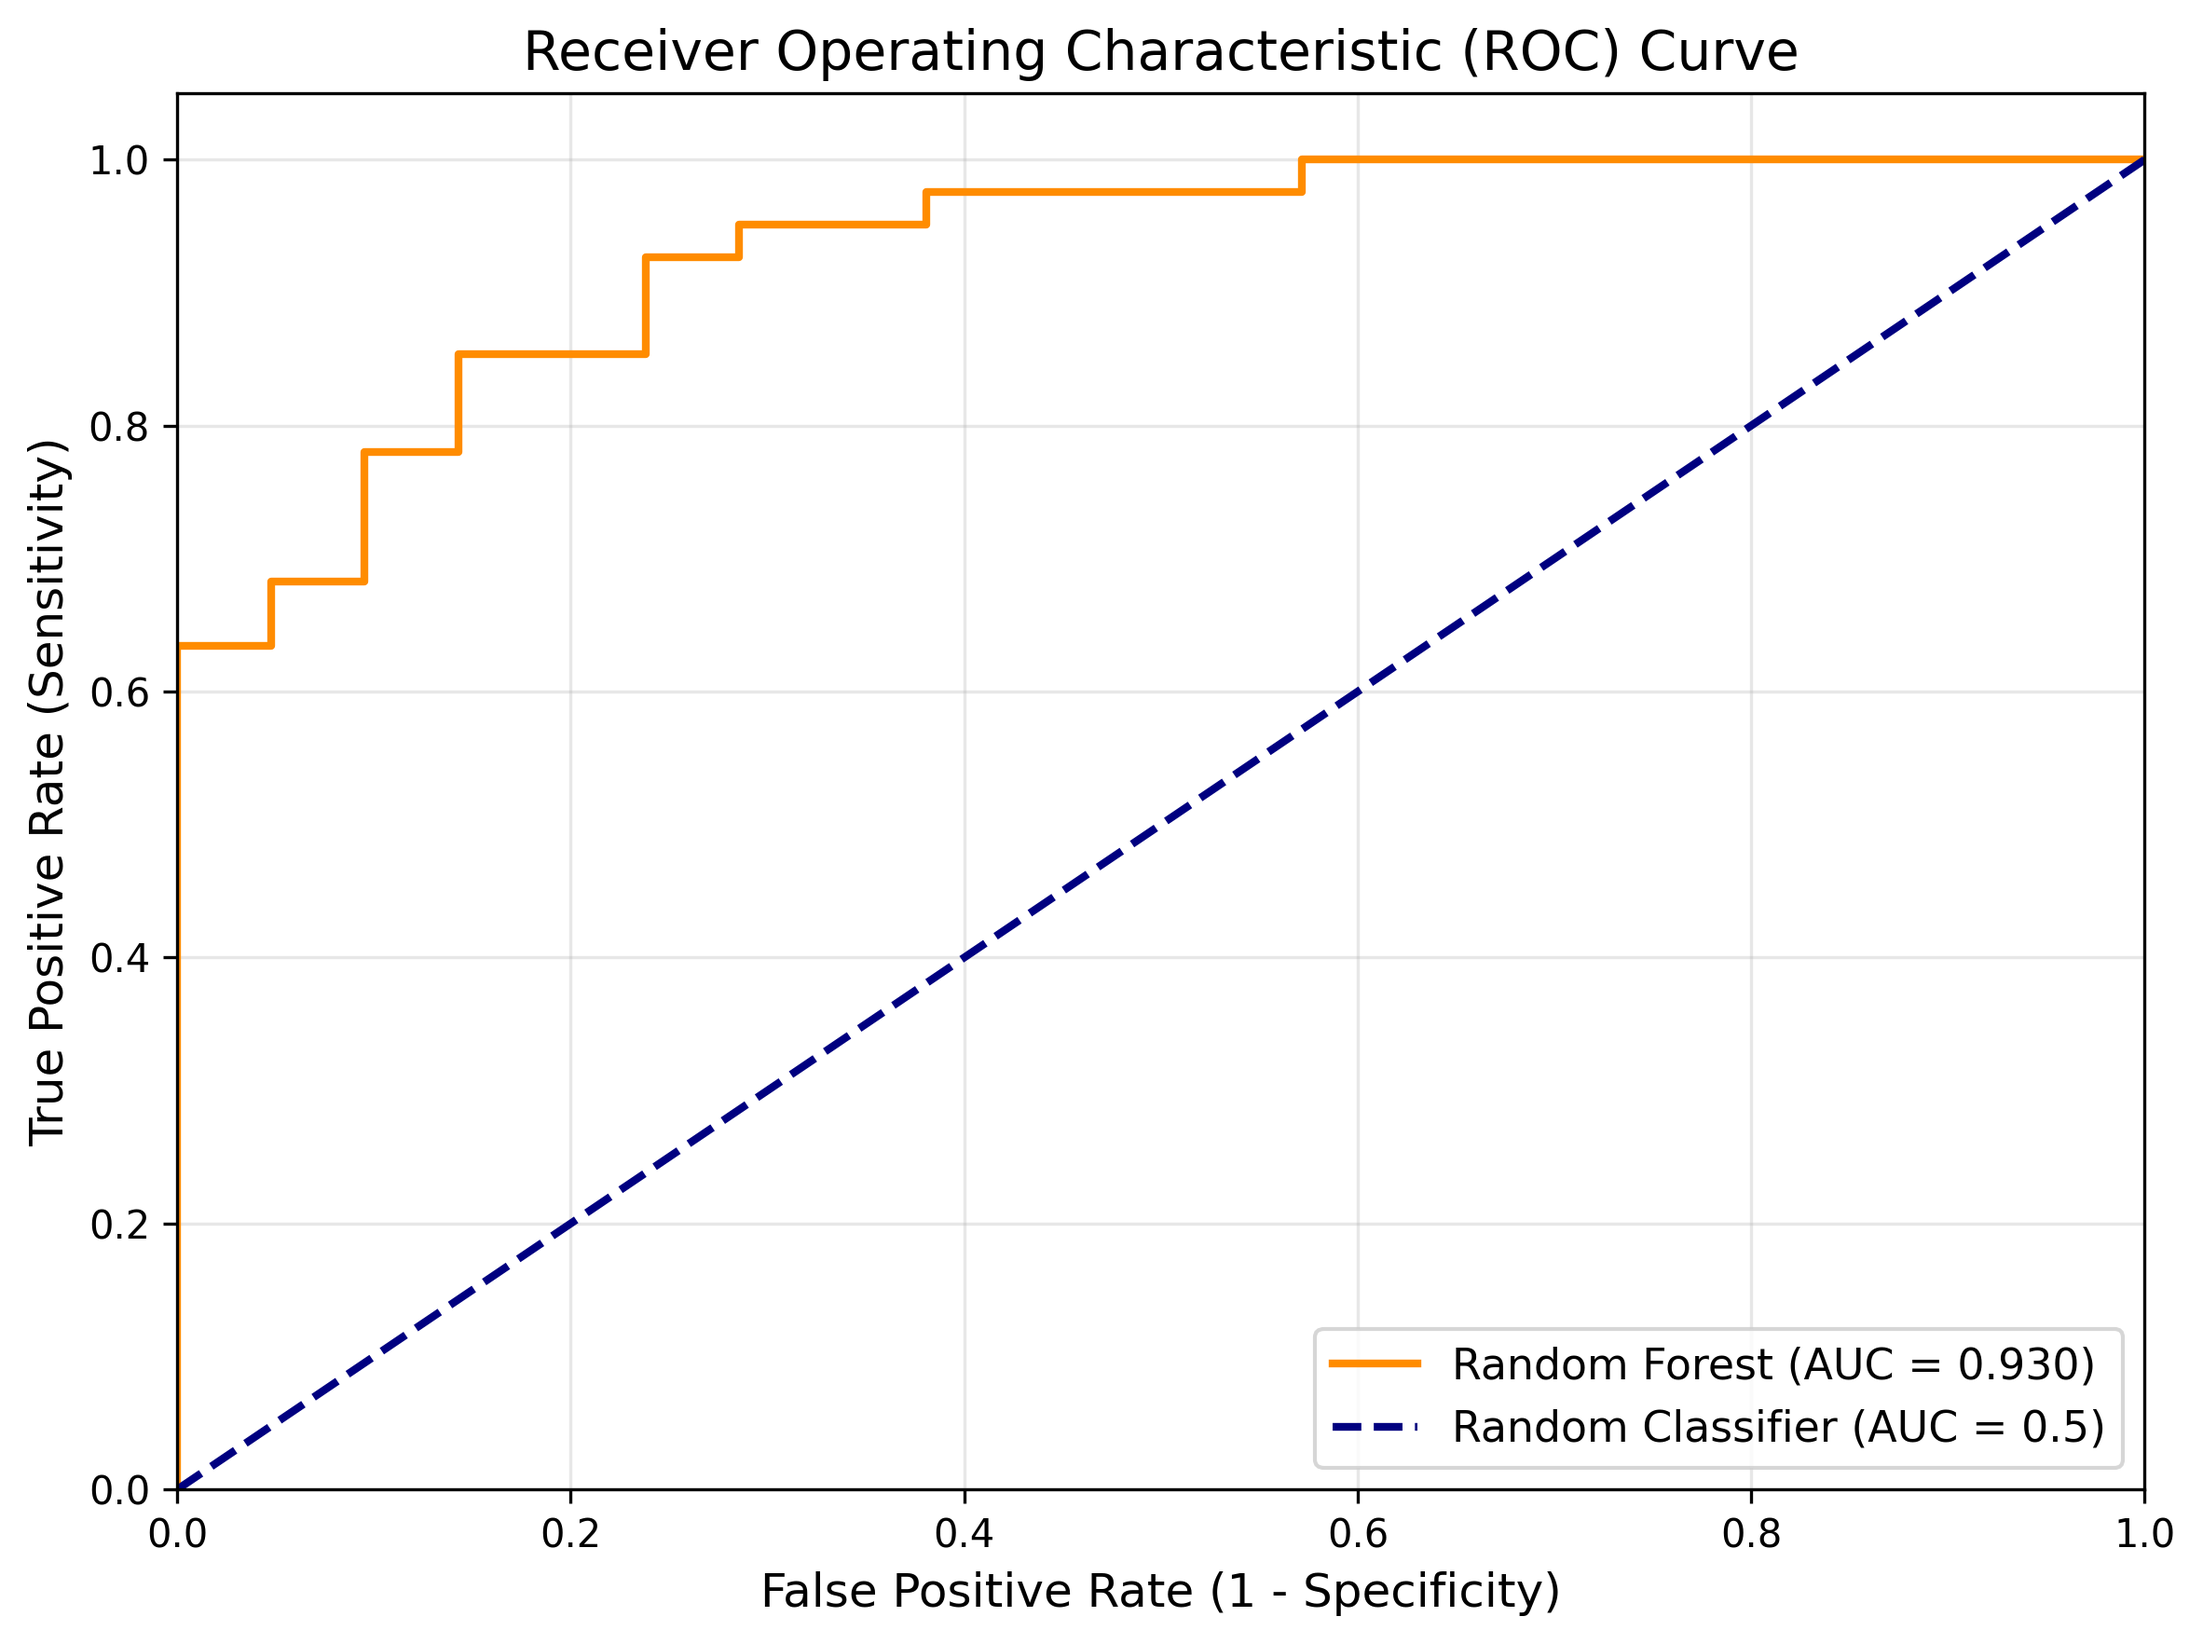
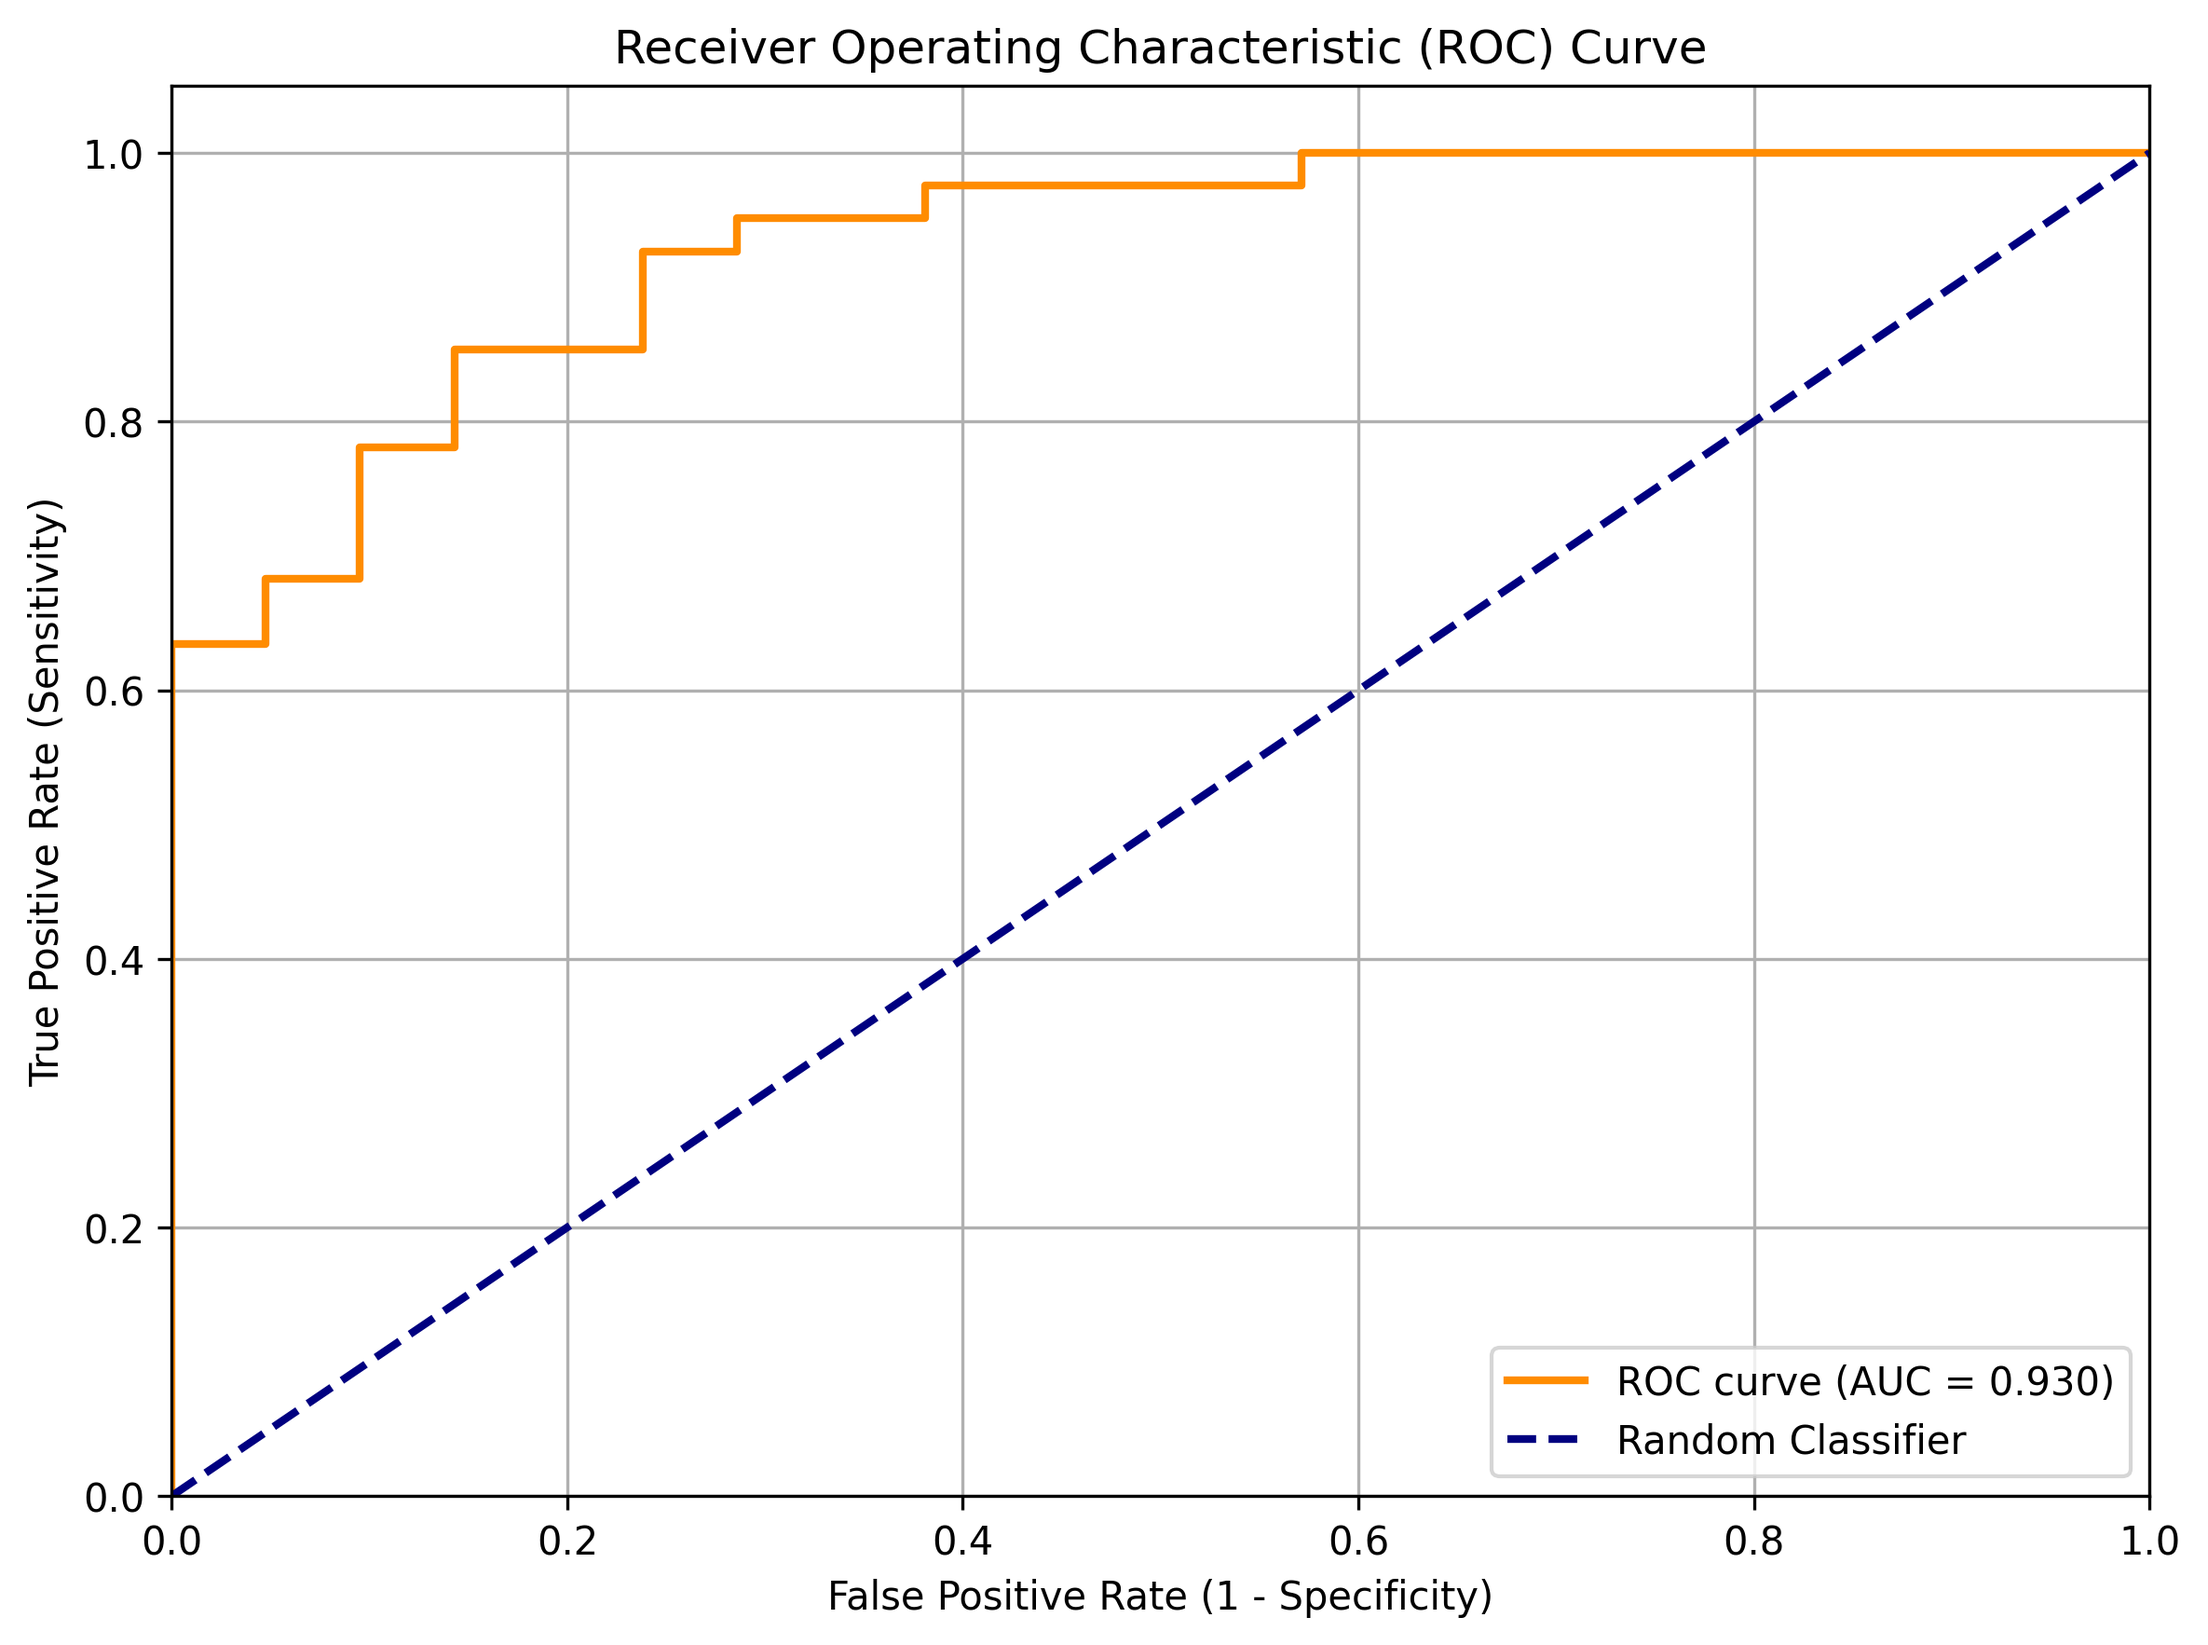
fix the terminologies

diff --git a/algo.py b/algo.py
@@ -2,18 +2,19 @@ import pandas as pd
 import numpy as np
 from sklearn.ensemble import RandomForestClassifier
 from sklearn.model_selection import train_test_split
-from sklearn.metrics import classification_report, accuracy_score, roc_auc_score, roc_curve
+from sklearn.metrics import classification_report, accuracy_score, roc_auc_score, roc_curve, confusion_matrix
 import joblib
 import json
 import matplotlib.pyplot as plt
+import seaborn as sns
 
 # Load dataset
 df = pd.read_csv("clam_dataset_nose.csv")
 print(f"Original dataset: {len(df)} samples")
 
 # Check class balance
-print(f"Alive (Label=1): {len(df[df['Label']==1])}")
-print(f"Dead (Label=0): {len(df[df['Label']==0])}")
+print(f"Healthy (Label=1): {len(df[df['Label']==1])}")
+print(f"At Risk (Label=0): {len(df[df['Label']==0])}")
 
 # Separate features and labels
 X = df.drop("Label", axis=1)
@@ -23,14 +24,14 @@ y = df["Label"]
 X_train, X_test, y_train, y_test = train_test_split(X, y, test_size=0.2, random_state=42, stratify=y)
 
 # Train model
-# IMPORTANT: Increase Alive weight to 10.0! This forces the model to REALLY look for pink noses.
+# IMPORTANT: Increase Healthy weight to 10.0! This forces the model to REALLY look for pink noses.
 model = RandomForestClassifier(
     n_estimators=300,          # More trees = more stable
     max_depth=15,              # Deeper trees to learn complex pink patterns
     min_samples_split=2,
     min_samples_leaf=1,
     random_state=42,
-    class_weight={0: 0.5, 1: 10.0},  # CRITICAL: Alive is 10x more important than Dead
+    class_weight={0: 0.5, 1: 10.0},  # CRITICAL: Healthy is 10x more important than At Risk
     oob_score=True
 )
 model.fit(X_train, y_train)
@@ -41,14 +42,14 @@ accuracy = accuracy_score(y_test, y_pred)
 print(f"\nTest Accuracy: {accuracy * 100:.2f}%")
 
 print("\nClassification Report:")
-print(classification_report(y_test, y_pred, target_names=['Dead', 'Alive']))
+print(classification_report(y_test, y_pred, target_names=['At Risk', 'Healthy']))
 
 # Calculate AUC
-y_pred_proba = model.predict_proba(X_test)[:, 1]  # Get probabilities for class 1 (Alive)
+y_pred_proba = model.predict_proba(X_test)[:, 1]  # Get probabilities for class 1 (Healthy)
 auc_score = roc_auc_score(y_test, y_pred_proba)
 print(f"\nAUC-ROC Score: {auc_score:.3f}")
 
-#AUC interpretation
+# AUC interpretation
 if auc_score >= 0.90:
     auc_interpretation = "Excellent"
 elif auc_score >= 0.80:
@@ -62,8 +63,66 @@ else:
 
 print(f"AUC Interpretation: {auc_interpretation}")
 
-fpr, tpr, thresholds = roc_curve(y_test, y_pred_proba)
+# Calculate Confusion Matrix
+cm = confusion_matrix(y_test, y_pred)
+print("\nConfusion Matrix:")
+print("                 Predicted")
+print("              At Risk  Healthy")
+print(f"Actual At Risk  {cm[0][0]:5d}  {cm[0][1]:5d}")
+print(f"Actual Healthy  {cm[1][0]:5d}  {cm[1][1]:5d}")
 
+# Detailed confusion matrix interpretation
+tn, fp, fn, tp = cm.ravel()
+print("\nConfusion Matrix Details:")
+print(f"True Negatives (At Risk correctly classified):     {tn}")
+print(f"False Positives (At Risk misclassified as Healthy): {fp}")
+print(f"False Negatives (Healthy misclassified as At Risk): {fn}")
+print(f"True Positives (Healthy correctly classified):     {tp}")
+
+# Calculate additional metrics from confusion matrix
+total = tn + fp + fn + tp
+accuracy_from_cm = (tn + tp) / total
+sensitivity = tp / (tp + fn)  # Recall for Healthy
+specificity = tn / (tn + fp)  # Recall for At Risk
+precision_healthy = tp / (tp + fp)
+precision_at_risk = tn / (tn + fn)
+
+print("\nMetrics derived from Confusion Matrix:")
+print(f"Overall Accuracy: {accuracy_from_cm:.3f}")
+print(f"Sensitivity (Recall for Healthy): {sensitivity:.3f}")
+print(f"Specificity (Recall for At Risk): {specificity:.3f}")
+print(f"Precision for Healthy: {precision_healthy:.3f}")
+print(f"Precision for At Risk: {precision_at_risk:.3f}")
+
+# Visualize Confusion Matrix
+plt.figure(figsize=(8, 6))
+sns.heatmap(cm, annot=True, fmt='d', cmap='Blues', 
+            xticklabels=['At Risk', 'Healthy'], 
+            yticklabels=['At Risk', 'Healthy'])
+plt.title('Confusion Matrix - Random Forest Classifier')
+plt.xlabel('Predicted Condition')
+plt.ylabel('Actual Condition')
+plt.tight_layout()
+plt.savefig('confusion_matrix.png', dpi=300, bbox_inches='tight')
+print("\n✅ Confusion matrix saved as 'confusion_matrix.png'")
+
+# ROC Curve visualization
+plt.figure(figsize=(8, 6))
+fpr, tpr, thresholds = roc_curve(y_test, y_pred_proba)
+plt.plot(fpr, tpr, color='darkorange', lw=2, label=f'ROC curve (AUC = {auc_score:.3f})')
+plt.plot([0, 1], [0, 1], color='navy', lw=2, linestyle='--', label='Random Classifier')
+plt.xlim([0.0, 1.0])
+plt.ylim([0.0, 1.05])
+plt.xlabel('False Positive Rate (1 - Specificity)')
+plt.ylabel('True Positive Rate (Sensitivity)')
+plt.title('Receiver Operating Characteristic (ROC) Curve')
+plt.legend(loc="lower right")
+plt.grid(True)
+plt.tight_layout()
+plt.savefig('roc_curve.png', dpi=300, bbox_inches='tight')
+print("✅ ROC curve saved as 'roc_curve.png'")
+
+# Print feature importance
 importances = model.feature_importances_
 indices = np.argsort(importances)[::-1]
 print("\nTop 5 Most Important Features:")
@@ -85,6 +144,16 @@ metrics = {
     'accuracy': accuracy,
     'auc_score': auc_score,
     'auc_interpretation': auc_interpretation,
+    'confusion_matrix': {
+        'true_negatives': int(tn),
+        'false_positives': int(fp),
+        'false_negatives': int(fn),
+        'true_positives': int(tp)
+    },
+    'sensitivity': float(sensitivity),
+    'specificity': float(specificity),
+    'precision_healthy': float(precision_healthy),
+    'precision_at_risk': float(precision_at_risk),
     'n_estimators': 300,
     'max_depth': 15,
     'class_weight': {0: 0.5, 1: 10.0}
@@ -93,3 +162,18 @@ metrics = {
 with open('model_metrics.json', 'w') as f:
     json.dump(metrics, f, indent=4)
 print("✅ Model metrics saved as 'model_metrics.json'")
+
+
+print("\n" + "="*50)
+print("SUMMARY OF MODEL PERFORMANCE")
+print("="*50)
+print(f"Confusion Matrix (Test Set, n={len(y_test)}):")
+print("                 Predicted")
+print("              At Risk  Healthy")
+print(f"Actual At Risk  {tn:5d}  {fp:5d}")
+print(f"Actual Healthy  {fn:5d}  {tp:5d}")
+print(f"\nAUC-ROC Score: {auc_score:.3f} ({auc_interpretation})")
+print(f"Accuracy: {accuracy*100:.2f}%")
+print(f"Sensitivity (Recall for Healthy): {sensitivity:.3f}")
+print(f"Specificity (Recall for At Risk): {specificity:.3f}")
+print("="*50)
